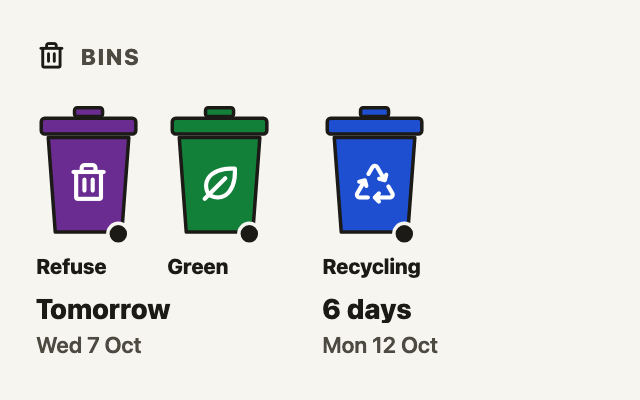
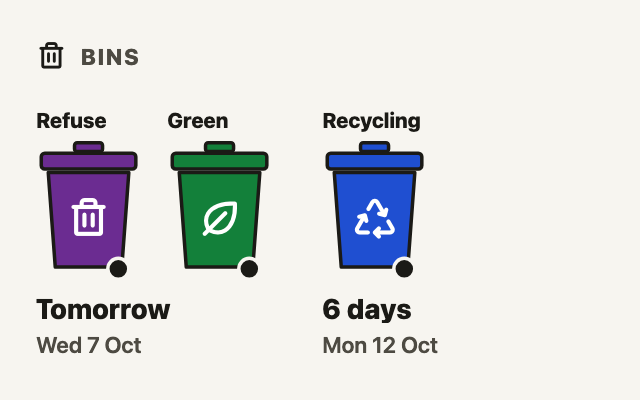
Put each bin's name above it
The owner found names under the bins, left-aligned, sat awkwardly beside
the wheel. Each name now sits above its bin, starting at the bin's left
edge, in MD, LG and small cells with wheelie bins. Bins line up along
their bottoms, so a "+N" badge stays level with the bins beside it.

- tests: the name comes before its bin in the markup and sits above it
  in the browser; "+N" stays level with the bin beside it
- 541 pytest cases at 100% line and branch coverage, passing on Tesserae
  0.436.1 and 0.466.1; 83 client tests

Changed region(s): [[0.5, 0.24, 0.6875, 0.72], [0.25, 0.24, 0.4375, 0.69], [0.0312, 0.24, 0.2188, 0.69]]

diff --git a/bin_day/client.js b/bin_day/client.js
@@ -181,7 +181,7 @@ const BIN_SVG = `<svg viewBox="0 0 60 80" aria-hidden="true">
   <circle class="wheel" cx="47" cy="73" r="6"/>
 </svg>`;
 
-// A bin with its name under it, or without (Show bin names off): its
+// A bin with its name above it, or without (Show bin names off): its
 // aria-label names it for screen readers either way.
 function bin(stream, named = true) {
   const colours = [
@@ -190,7 +190,8 @@ function bin(stream, named = true) {
     `--ink:${safeColour(stream.icon_colour)}`,
   ].join(";");
   const name = escapeHtml(stream.label);
-  return `<span class="bin-item"><span class="bin" ${monoAttr(stream)} role="img" aria-label="${name}" style="${colours}">${BIN_SVG}${iconHtml(stream)}</span>${named ? `<span class="bin-label">${name}</span>` : ""}</span>`;
+  const label = named ? `<span class="bin-label">${name}</span>` : "";
+  return `<span class="bin-item">${label}<span class="bin" ${monoAttr(stream)} role="img" aria-label="${name}" style="${colours}">${BIN_SVG}${iconHtml(stream)}</span></span>`;
 }
 
 // "+N" for the bins that don't fit. Its text is in a child, so the badge box

diff --git a/bin_day/client.css b/bin_day/client.css
@@ -163,7 +163,7 @@
 }
 
 /* ---- wheelie bins ------------------------------------------------------- */
-/* A bin is 4/3 as tall as it is wide; with its name (--fs-label) under it a
+/* A bin is 4/3 as tall as it is wide; with its name (--fs-label) above it a
    bin item is about 1.39 bin widths plus a line of label text. */
 .bin-day {
   --name-line: calc(var(--fs-label) * 1.35);
@@ -177,7 +177,7 @@
 .bin-day .bins {
   display: flex;
   flex-wrap: wrap;
-  align-items: flex-start;
+  align-items: flex-end; /* bins level along their bottoms, names above */
   gap: calc(var(--bin) * 0.1);
   /* --bins items a line, then wrap (a busy day's second line) */
   max-width: calc(var(--bin) * (var(--bins) * 1.25 - 0.1));
@@ -186,7 +186,7 @@
 .bin-day .bin-item {
   display: flex;
   flex-direction: column;
-  align-items: flex-start; /* on the left, its name under it */
+  align-items: flex-start; /* on the left, its name above it */
   gap: calc(var(--bin) * 0.06);
   width: calc(var(--bin) * 1.15);
   min-width: 0;

diff --git a/tests/js/client.test.js b/tests/js/client.test.js
@@ -397,6 +397,15 @@ describe("bin shapes", () => {
     assert.ok(html.includes('aria-label="Recycling"'));
   });
 
+  test("a bin's name sits above it", () => {
+    for (const [size, options] of [["md", {}], ["lg", {}], ["xs", { small_cells: "bins" }]]) {
+      const shadow = { innerHTML: "" };
+      render(shadow, { cell: { size, options }, data: { days: [{ ...MONDAY, streams: [RECYCLING] }] }, locale: "en" });
+      const item = shadow.innerHTML.match(/<span class="bin-item">.*?<\/span><\/span>/s)[0];
+      assert.ok(item.indexOf('class="bin-label"') < item.indexOf('class="bin"'), size);
+    }
+  });
+
   test("a stream with no icon gets a plain bin, never a generic one", () => {
     const html = draw("md", { days: [{ ...MONDAY, streams: [stream("Brown bin", null, "#7a4a21")] }] });
     assert.equal(count(html, 'class="bin"'), 1);

diff --git a/tests/test_widget_browser.py b/tests/test_widget_browser.py
@@ -325,9 +325,10 @@ def test_a_plus_n_badge_is_the_size_of_its_neighbours(tab, bins, w, h, streams, 
     bins(streams)
     show(tab, w, h)
     row = tab.locator(scope).first
-    neighbour, more = box(row.locator(shape).first), box(row.locator(".more"))
+    neighbour, more = box(row.locator(shape).last), box(row.locator(".more"))  # side by side
     assert abs((more[2] - more[0]) - (neighbour[2] - neighbour[0])) <= 1
     assert abs((more[3] - more[1]) - (neighbour[3] - neighbour[1])) <= 1
+    assert abs(more[3] - neighbour[3]) <= 1, "+N is not level with the bins beside it"
     cell = box(tab.locator(".cell").first)
     for element in tab.locator(f".w-title, .w-body :is({DRAWN}):visible").all():
         assert within(box(element), cell), element.evaluate("el => el.outerHTML.slice(0, 60)")
@@ -370,3 +371,17 @@ def test_md_day_columns_keep_their_bins_on_one_line(tab, bins):
     for column in tab.locator(".day-col").all():
         tops = {round(box(item)[1]) for item in column.locator(":is(.bin-item, .more)").all()}
         assert max(tops) - min(tops) <= 1, "a column's bins wrapped onto a second line"
+
+
+@pytest.mark.parametrize(
+    "w, h, options",
+    [(640, 400, {}), (1200, 800, {}), (205, 165, WHEELIE_BINS)],
+    ids=["md", "lg", "small"],
+)
+def test_each_bin_has_its_name_above_it(tab, bins, w, h, options):
+    bins(LIVERPOOL)
+    show(tab, w, h, **options)
+    for item in tab.locator(".bin-item").all():
+        label, drawn = box(item.locator(".bin-label")), box(item.locator(".bin"))
+        assert label[3] <= drawn[1] + 1
+        assert abs(label[0] - drawn[0]) <= 1, "the name doesn't start at the bin's left edge"

diff --git a/README.md b/README.md
@@ -103,7 +103,7 @@ Add a **Bin Day** cell to a dashboard. It has six options:
 | Collection done by | After this time on collection day, that day's bins count as collected and the next collection shows instead. 10:00 unless you change it. |
 | Colours | **Colour** suits screens. **Colour for e-ink** uses the exact inks of colour e-ink panels such as the reTerminal E1002, so bins print as solid ink. **Black & white** draws each bin solid, outlined or patterned, for mono panels. **Auto** uses Colour, or Black & white on black and white themes such as Paper and Newsprint. |
 | Small cells show | **Chips**, the default, shows the next two collection days in XS and SM cells, each bin as a coloured square. **Wheelie bins** shows only the next collection there, its bins drawn as large as the cell allows, for a small cell you read at a glance. MD and LG cells always draw wheelie bins. |
-| Show bin names | The names under the wheelie bins, and in LG's list of later days. Turn it off and the bins grow into the space. |
+| Show bin names | The names above the wheelie bins, and in LG's list of later days. Turn it off and the bins grow into the space. |
 
 With Small cells show set to Wheelie bins:
 
